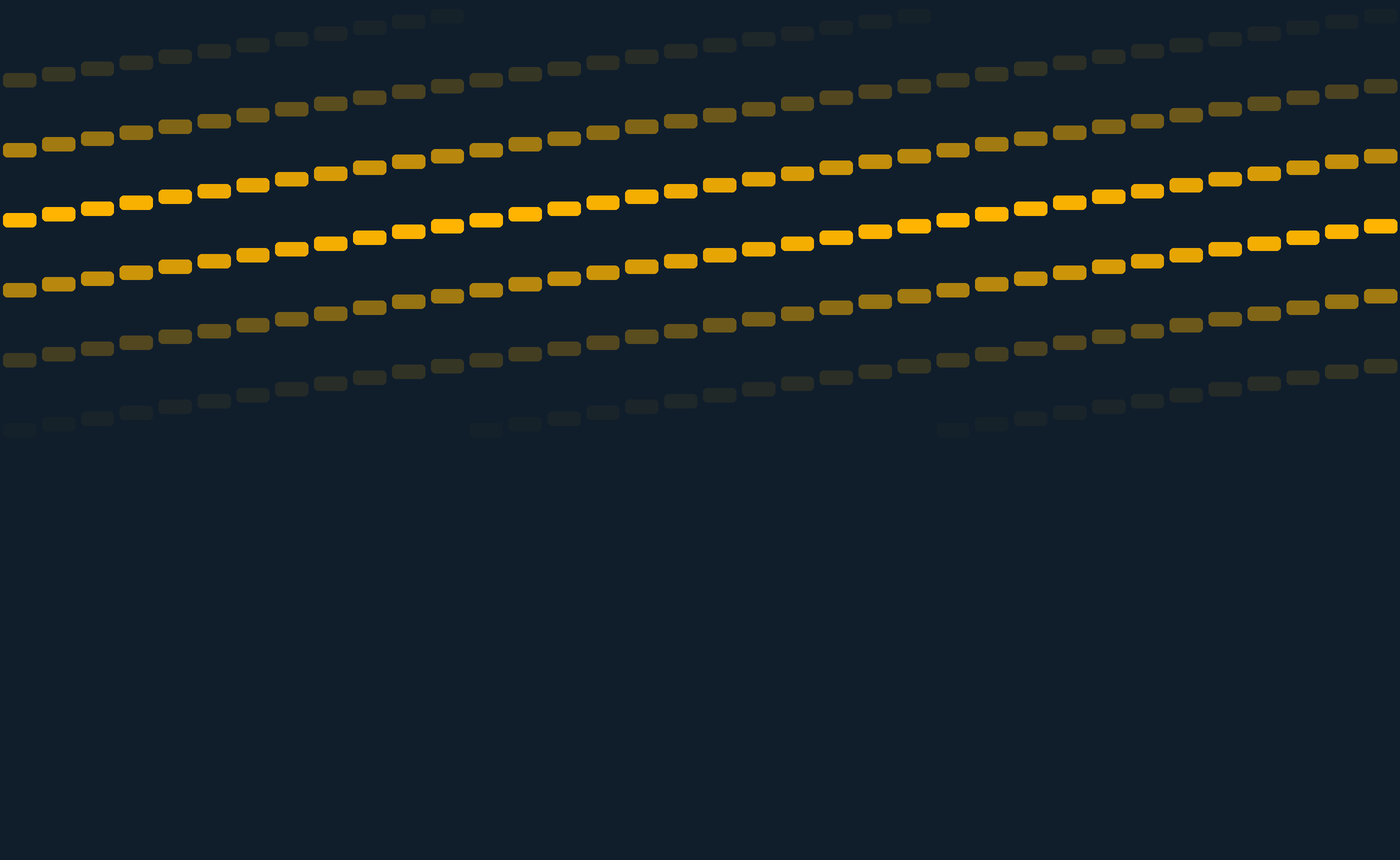
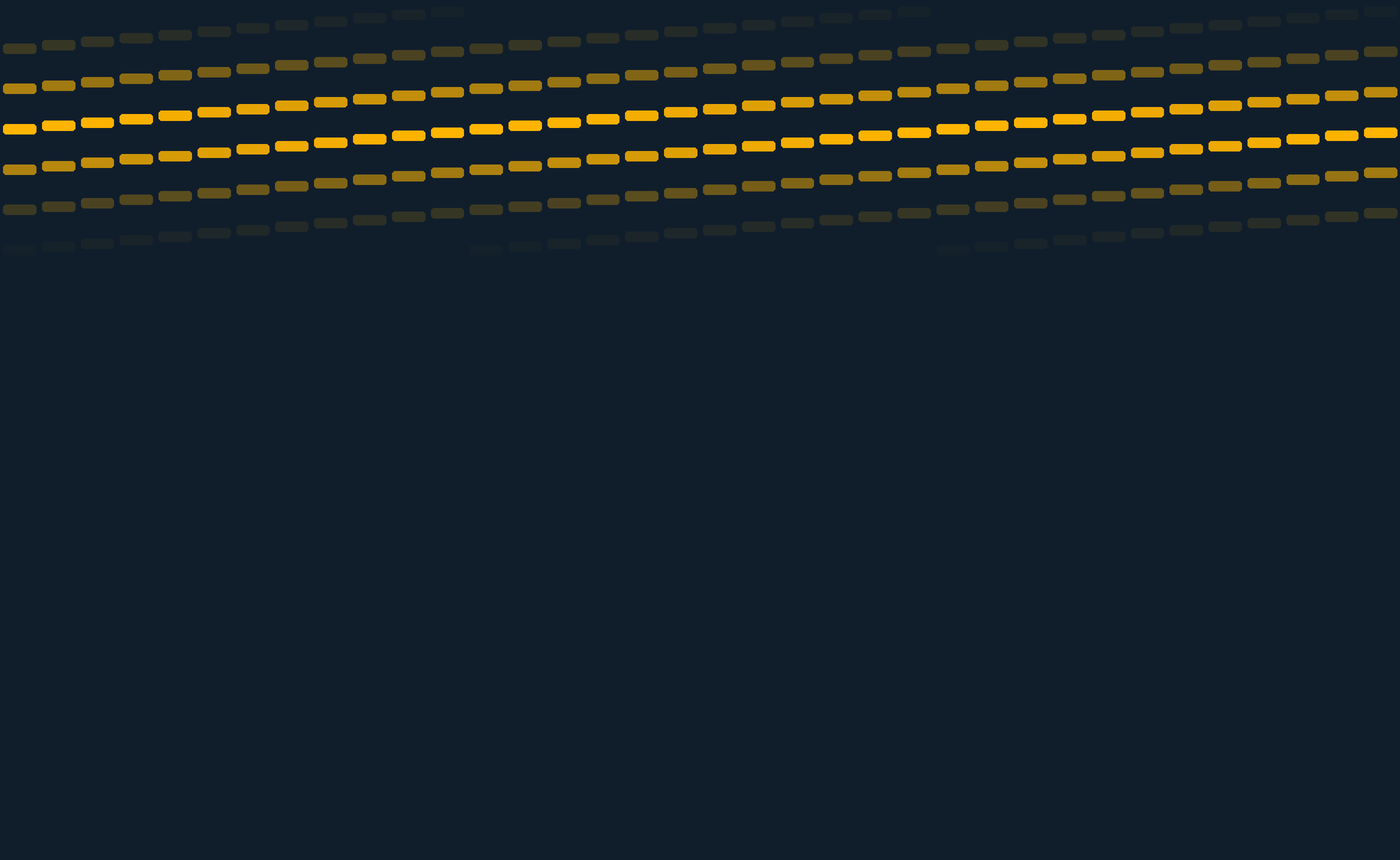
Explore: keep Curiosity drawings in the top band so the text reads cleanly; white Coming soon label
Claude-Session: https://claude.ai/code/session_013sx3wfmqissr3fcHHxVhKi

diff --git a/_pages/explore.html b/_pages/explore.html
@@ -61,7 +61,7 @@ nav_order: 1
 {%- for r in x_curs -%}
   {%- assign area = site.data.research | where: "id", r.area | first %}
   <article class="sb-x-cur{% if r.art %} sb-x-art-{{ r.art }}{% endif %}" id="curiosity-{{ r.name | slugify }}">
-    {% if r.image %}<img src="{{ r.image | prepend: '/assets/' | relative_url }}" alt="{{ r.alt | escape }}" loading="lazy">{% endif %}
+    {% if r.image %}<img src="{{ r.image | prepend: '/assets/' | relative_url }}" alt="{{ r.alt | escape }}" loading="lazy"{% if r.focus %} style="object-position: {{ r.focus }}"{% endif %}>{% endif %}
     <div class="sb-x-cur-body">
       <span class="sb-x-kick">{{ r.name }}{% if area %} · {{ area.title }}{% endif %}</span>
       <h3>{{ r.question }}</h3>

diff --git a/_sass/_soundbendor.scss b/_sass/_soundbendor.scss
@@ -2700,6 +2700,7 @@ $sb-star-canvas: #003b5c;
   border-radius: 999px;
   font-size: 0.85rem;
   font-weight: 700;
+  color: #ffffff !important;
 }
 .sb-x-credit { font-size: 0.72rem; color: rgba(255, 255, 255, 0.85) !important; }
 // Seeing Music: Scriabin's key colors around the circle of fifths (Sabaneyev 1911)
